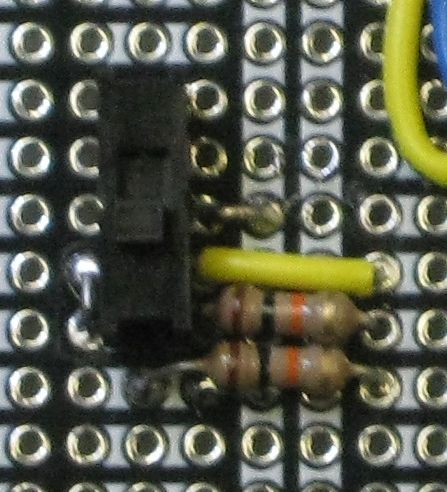
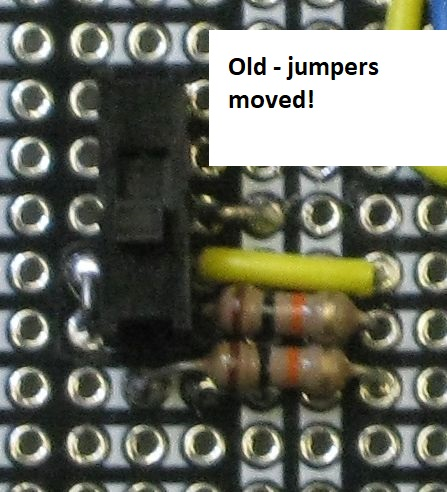
update wiring.html for jumpers

Changed region(s): [[0.4653, 0.061, 1.0, 0.3659]]

diff --git a/2021/expansion-3pi/wiring.html b/2021/expansion-3pi/wiring.html
@@ -62,7 +62,7 @@ pandoc -s --toc -t gfm wiring.pandoc.md -o wiring.md
 <li>To provide more space for the 10 K resister attached to ground near RB6 I suggest adjusting the jumper positions so that the switch can be moved one hole farther away from the Xpress board.</li>
 </ul>
 <p>Example layout with switch before adjusting jumpers. Note that the photo does not illustrate the ground connection of the resistor because the lead is folded under the resister in this shot.</p>
-<p><img src="images/mode-switch-review.jpg" />images</p>
+<p><img src="images/mode-switch-review.jpg" /> <img src="images/pull-up-down-jumpers.jpg" /></p>
 <h3 id="added-charging-circuit-to-expansion-board">Added Charging Circuit to Expansion Board</h3>
 <p>Power jack not shown in this image.</p>
 <p><img src="images/expansion-before-headers.jpg" /></p>

diff --git a/2021/expansion-3pi/wiring.pandoc.md b/2021/expansion-3pi/wiring.pandoc.md
@@ -41,7 +41,7 @@ A change was made here from the prototype.
 Example layout with switch before adjusting jumpers. Note that the photo does not illustrate the ground connection 
 of the resistor because the lead is folded under the resister in this shot.
 
-![](images/mode-switch-review.jpg)images
+![](images/mode-switch-review.jpg) ![](images/pull-up-down-jumpers.jpg)
 
 ### Added Charging Circuit to Expansion Board
 

diff --git a/2021/expansion-3pi/wiring.md b/2021/expansion-3pi/wiring.md
@@ -55,7 +55,7 @@ Example layout with switch before adjusting jumpers. Note that the photo
 does not illustrate the ground connection of the resistor because the
 lead is folded under the resister in this shot.
 
-![](images/mode-switch-review.jpg)images
+![](images/mode-switch-review.jpg) ![](images/pull-up-down-jumpers.jpg)
 
 ### Added Charging Circuit to Expansion Board
 
